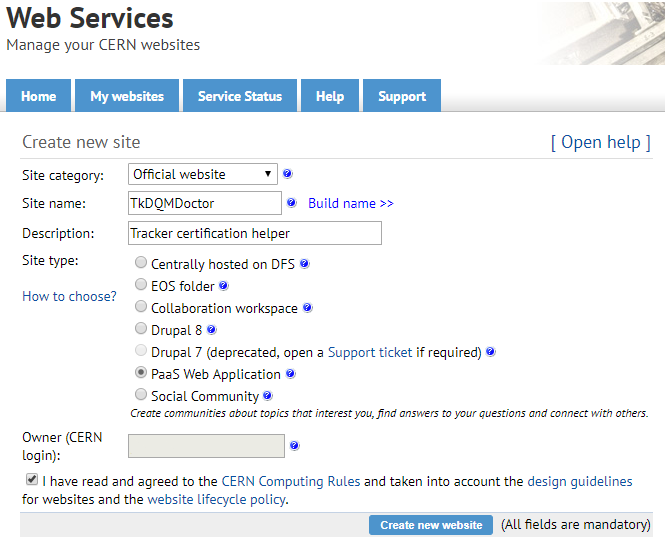
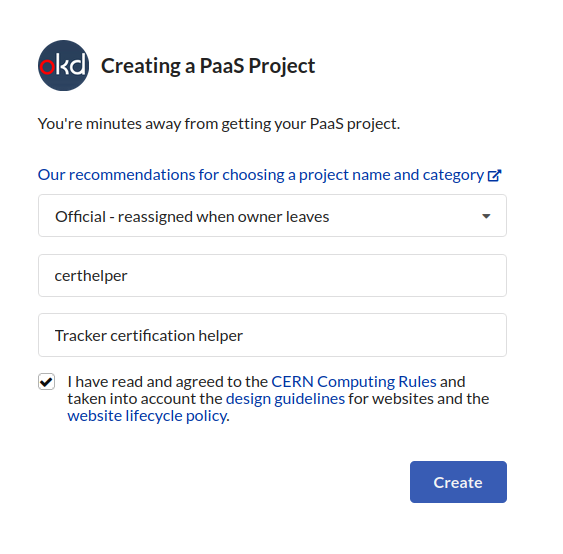
Update deployment docs (WIP)

diff --git a/docs/deployment.rst b/docs/deployment.rst
@@ -1,11 +1,11 @@
 Deployment
 ==========
 
-Requesting website
-------------------
+Requesting a website
+--------------------
 
-A website can be requested at the CERN web services.
-https://webservices.web.cern.ch/webservices/
+Create a new PaaS project: https://paas.docs.cern.ch/1._Getting_Started/1-create-paas-project/
+
 
 .. image:: images/request-website.png
 
@@ -23,123 +23,140 @@ Setup
 Prerequisites
 ^^^^^^^^^^^^^
 
-Download the ``oc`` command line utility.
+Download the ``oc`` command line utility, preferably on your lxplus account.
 
-https://www.okd.io/download.html
+https://paas.docs.cern.ch/1._Getting_Started/5-installing-cli/
 
-On Arch Linux all you have to do is install ``origin-client-bin`` from
-the AUR.
 
-.. code:: bash
-
-   yay -S origin-client-bin
+Procedure
+^^^^^^^^^
 
 Once the website is successfully requested the application should be
 available in OpenShift. Following steps need to be done in order to
 configure the web application with the GitHub repository:
 
-1.  go to https://openshift.cern.ch/console/
-2.  select the project
-3.  click "Browse Catalog"
-4.  choose Python
-5.  click "Next"
-6.  on "Add to Project" select your Project
-7.  choose Version 3.6
-8.  Fill Application Name and Link to GitHub repository e.g.:
-    test-certhelper https://github.com/CMSTrackerDPG/certifier
-9.  click on "advanced options"
-10. set branch name in "Git Reference" if branch anything other than
-    "master"
-11. add GitHub credentials at "Source Secret" if the repository is
+1.  Go to https://paas.cern.ch
+2.  Select the project you created
+	.. image:: images/paas-select-project.png
+3.  Click on "Add" on the left
+	.. image:: images/paas-add.png	
+4.  choose ``Git Repository``
+	.. image:: images/paas-add-git.png
+5.  Paste the repository URL in the field provided.
+6.  Under ``Advanced Git options``, you may select a specific branch, if needed.
+7.  okd will automatically detect that this is a Python	application and will select the latest version of Python.
+	.. note::
+	   As of writing, we select ``3.8-ubi8``.
+	   
+8.  Under **General**, change the **Application name** and **Name** appropriately. 
+9.  Under **Resources**, select **Deployment**
+	.. image:: images/paas-deployment.png
+			   
+10. Add GitHub credentials at "Source Secret" if the repository is
     private
-12. check "Secure route"
-13. set "TLS Termination" to "Edge"
-14. set "Insecure Traffic" to "Redirect"
-15. click on "CREATE"
-16. click on your name in the top right corner and click on ``Copy Login Command`` and login in your terminal by pasting it.
-17. select Project
+	
+11. Make sure that *Create a route to the Application* is ticked.
+12. Under *Show advanced Routing options*:
+	a. Paste the **Hostname** you want (will be automatically registered),
+	b. Make sure *Secure Route* is ticked,
+	c. Under **TLS termination**, select *Edge*,
+	d. Under **Insecure Traffic**, select *Redirect*.
+13. Click on **Create**. The application has been configured!
+	.. note::
+	   Under **Topology**, you will see your project trying to run for the first time.
+	   This will fail, since most environmental variables are missing. Click on the
+	   main app:
+	   
+	   .. image:: images/paas-topology-main-app.png
 
-.. code:: bash
+	   You should be getting the following error:
+				  
+	   .. image:: images/paas-crash-loop.png
+	
+..
+   14. click on your name in the top right corner and click on ``Copy Login Command`` and login in your terminal by pasting it.
+..
+   14. select the Project
 
-   $ oc project <your-project-name>
+	   .. code:: bash
 
-18. create Secrets
+				 $ oc project <your-project-name>
 
-First you have to create the secrets in Openshift for all accounts needed below:
+   18. create Secrets
 
-.. code:: bash
+   First you have to create the secrets in Openshift for all accounts needed below:
 
-   $ oc create secret generic <secret-name> --type=kubernetes.io/basic-auth --from-literal=username=<account-username> --from-literal=password=<account-password>
+   .. code:: bash
+
+	  $ oc create secret generic <secret-name> --type=kubernetes.io/basic-auth --from-literal=username=<account-username> --from-literal=password=<account-password>
 
 
-19. under "Build"->Your project->Environment use the "Add Value | Add Value from Config Map or Secret" buttons to add the variables:
+19. Under :menuselection:`Builds --> Your project name --> Environment` use the :guilabel:`Add more` and :guilabel:`Add from ConfigMap or Secret` buttons to add the variables:
 
-Accounts/Secrets environment variables(added using "Add Value from Config Map or Secret" button):
+	* Accounts/Secrets environment variables (added using :guilabel:`Add Value from Config Map or Secret` button):
 
-    -  this will be used for the database credentials:
+	  - this will be used for the database credentials:
+		::
+		   
+		   DJANGO_SECRET_KEY          <your-secret>
+		   DJANGO_DATABASE_USER       <your-username>
+		   DJANGO_DATABASE_PASSWORD   <your-password>
 
-    ::
+	  - this will be used for the email notifications:
+		::
+	   
+		   DJANGO_EMAIL_HOST_USER     <your-email-username>
+		   DJANGO_EMAIL_HOST_PASSWORD <your-email-password>
 
-        DJANGO_SECRET_KEY          <your-secret>
-        DJANGO_DATABASE_USER       <your-username>
-        DJANGO_DATABASE_PASSWORD   <your-password>
+	  - this will be used to generate the tracker maps:
+		::
+		 
+		   DJANGO_SECRET_ACC           <account-username>
+		   DJANGO_SECRET_PASS          <account-password>
 
-    -  this will be used for the email notifications:
+	* Remaining Variables (added using :guilabel:`Add Value` button):
 
-    ::
+	  - this is needed for OpenShift to be able to access the site:
+		::
+		 
+		   DJANGO_ALLOWED_HOSTS       <Host website you registered in step 12.a>
+		   DJANGO_DEBUG               False
+		   
+	  - this will be used for the database credentials:
+		::
+			 
+		   DJANGO_DATABASE_ENGINE     django.db.backends.postgresql_psycopg2
+		   DJANGO_DATABASE_NAME       <your-database-name>
+		   DJANGO_DATABASE_HOST       <your-database-host>
+		   DJANGO_DATABASE_PORT       6611
 
-        DJANGO_EMAIL_HOST_USER     <your-email-username>
-        DJANGO_EMAIL_HOST_PASSWORD <your-email-password>
+	  - this will be used for the email notifications:
+		::
+			 
+		   DJANGO_EMAIL_HOST          smtp.cern.ch
+		   DJANGO_EMAIL_PORT          587
+		   DJANGO_EMAIL_USE_TLS       True
+		   DJANGO_SERVER_EMAIL        <tkdqmdoctor-email-address>
 
-    - this will be used to generate the tracker maps:
+	  - this will be used for the cernrequest and Runregistry API:
+		::
+			 
+		   CERN_CERTIFICATE_PATH       <path>
+	  
+	  - this will be used to access the Redis server (secret is created automatically by the redis yaml):
+		::
 
-    ::
+		   REDIS_HOST                  <redis-[server number]>
+		   REDIS_PASSWORD              <password>
 
-        DJANGO_SECRET_ACC           <account-username>
-        DJANGO_SECRET_PASS          <account-password>
+	  - Other:
+		::
+		  
+		   CSRF_TRUSTED_ORIGINS        https://[the hostname you resistered in step 12.a]
 
-Remaining Variables(added using "Add Value" button):
-
-    -  this is needed for OpenShift to be able to access the site
-
-    ::
-
-        DJANGO_ALLOWED_HOSTS       <your openshift website>
-        DJANGO_DEBUG               False
-
-    -  this will be used for the database credentials:
-
-    ::
-
-        DJANGO_DATABASE_ENGINE     django.db.backends.postgresql_psycopg2
-        DJANGO_DATABASE_NAME       <your-database-name>
-        DJANGO_DATABASE_HOST       <your-database-host>
-        DJANGO_DATABASE_PORT       6600
-
-    -  this will be used for the email notifications:
-
-    ::
-
-        DJANGO_EMAIL_HOST          smtp.cern.ch
-        DJANGO_EMAIL_PORT          587
-        DJANGO_EMAIL_USE_TLS       True
-        DJANGO_SERVER_EMAIL        <tkdqmdoctor-email-address>
-
-    - this will be used for the cernrequest and runregistry api
-
-    ::
-
-        CERN_CERTIFICATE_PATH       <path>
-
-    - this will be used to access the redis server(secret is created automatically by the redis yaml):
-
-    ::
-
-        REDIS_HOST                  <redis-[server number]>
-        REDIS_PASSWORD              <password>
-
-Note: The application has to be set up only once. Once it is fully
-configured it probably can never be touched again.
+		
+.. note::
+   The procedure above should only be followed once. Once the app is fully configured, you should not have to alter anything, unless a change occurs (e.g. Database host/password).
 
 
 Mount EOS Storage
